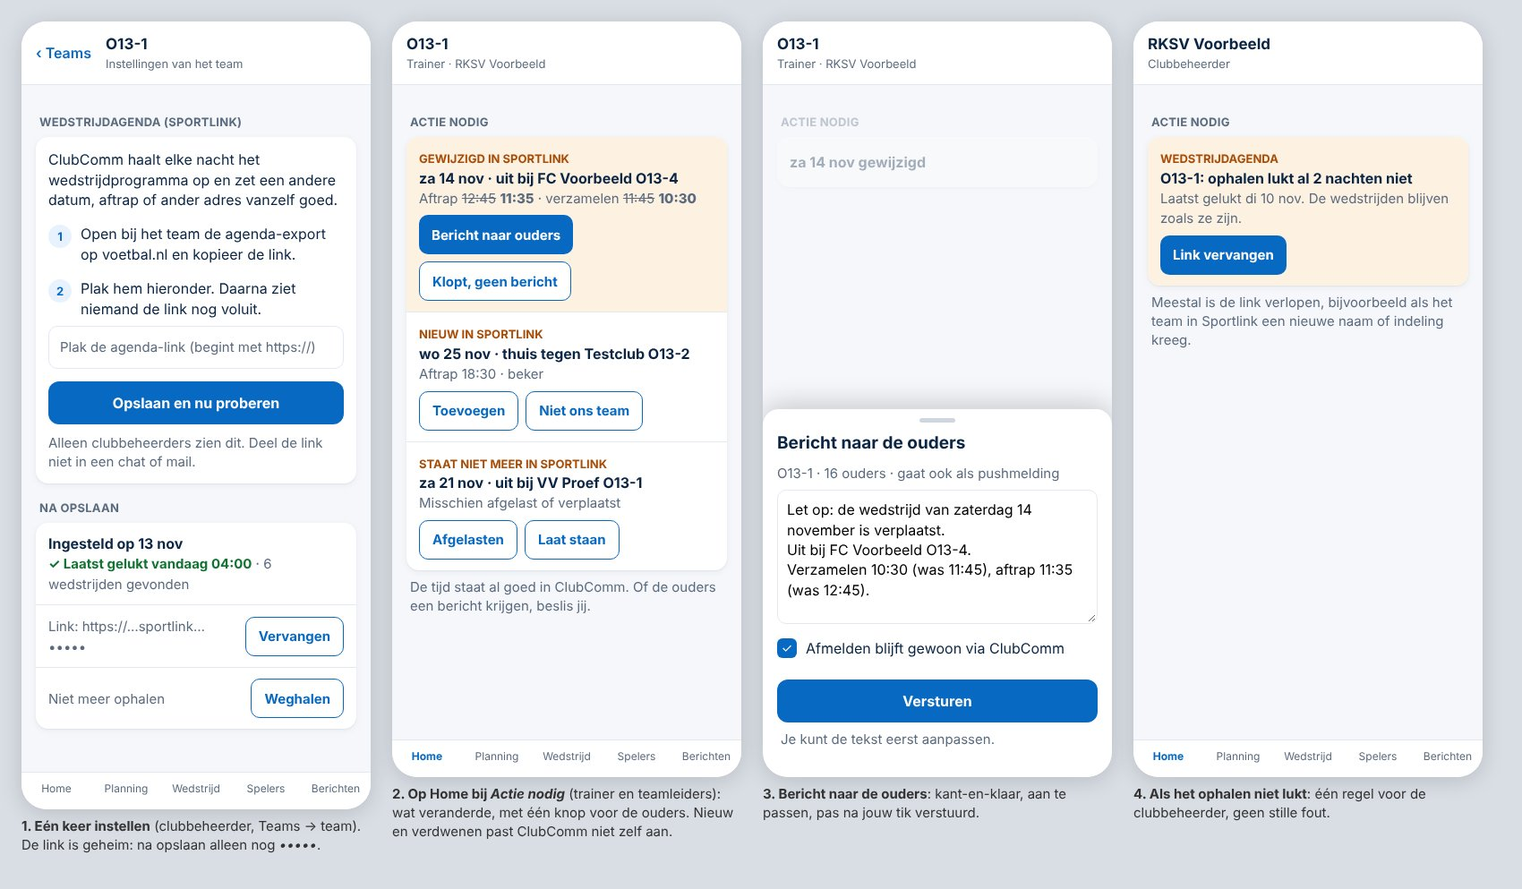
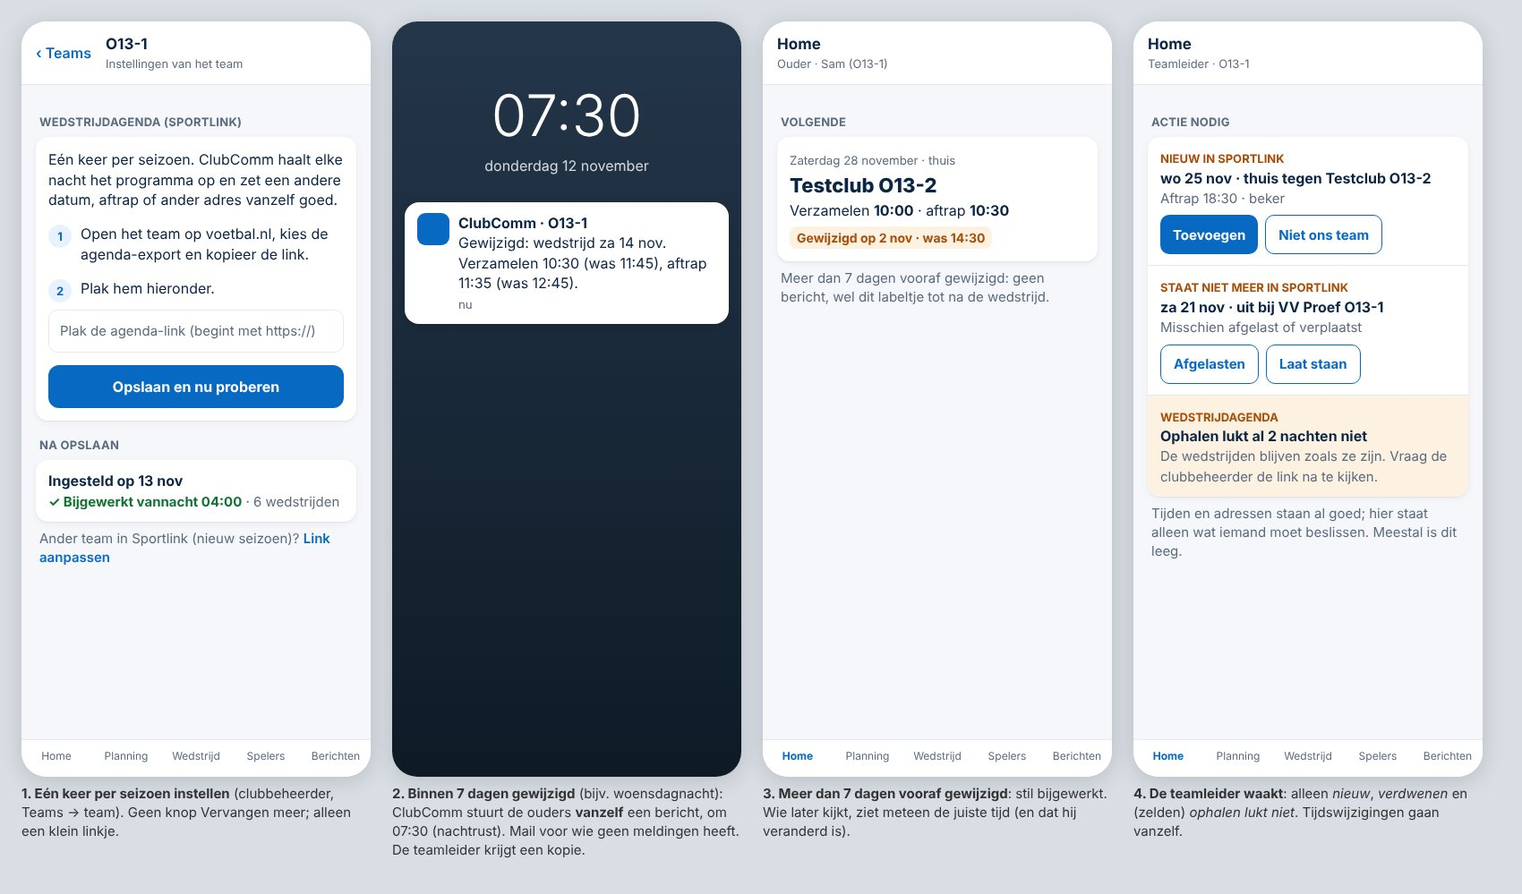
Voorstel D versie 2 (link hele seizoen, 7-dagenregel met vanzelf bericht, teamleider waakt) en voorbeeld stap 1 (teamleider past aftrap aan)
Claude-Session: https://claude.ai/code/session_01JemqRo5kiX7AhhtzuggotQ

diff --git a/docs/onderzoek/sportlink-agenda/voorbeeld.html b/docs/onderzoek/sportlink-agenda/voorbeeld.html
@@ -1,6 +1,6 @@
 <!doctype html>
 <html lang="nl"><head><meta charset="utf-8"><meta name="viewport" content="width=device-width, initial-scale=1">
-<title>Voorbeeld: wedstrijdagenda (voorstel D)</title>
+<title>Voorbeeld: wedstrijdagenda (voorstel D, versie 2)</title>
 <style>
 /* Voorstel D: voorbeeld in de huidige stijl van de app; verzonnen club en namen */
 :root { --blauw: #0869c2; --blauw-l: #e7f2fe; --inkt: #0b2545; --zacht: #5b6b7f; --lijn: #e3e9f1; --grond: #f5f7fa; --groen: #137333; --groen-l: #e7f6ec; --rood: #dc2626; --oranje: #a84d08; }
@@ -51,6 +51,20 @@ h2 { font-size: 13px; letter-spacing: .02em; color: var(--zacht); margin: 18px 4
 .stap { display:grid; grid-template-columns:26px 1fr; gap:10px; padding:8px 0; } .stap .nr { margin-top:1px; }
 .ok { color:var(--groen); font-weight:700; } textarea { width:100%; min-height:150px; font:inherit; border:1.5px solid var(--lijn); border-radius:10px; padding:10px; }
 .vink { display:flex; gap:10px; align-items:flex-start; padding:10px 0; } .vink i { width:22px; height:22px; border-radius:6px; background:var(--blauw); color:#fff; display:grid; place-items:center; font-style:normal; font-size:14px; flex:none; }
+</style><style>
+.form { padding:14px; } .form label { display:block; font-size:14px; color:var(--zacht); margin:10px 0 4px; font-weight:600; }
+.inp { min-height:44px; border:1.5px solid var(--lijn); border-radius:10px; padding:10px 12px; background:#fff; } .inp.aan { border-color:var(--blauw); box-shadow:0 0 0 3px var(--blauw-l); }
+.twee { display:grid; grid-template-columns:1fr 1fr; gap:10px; }
+.hint { font-size:14px; color:var(--zacht); margin-top:4px; } .hint b { color:var(--inkt); }
+.melding { background:#fff; border-radius:16px; padding:12px 14px; box-shadow:0 2px 10px rgba(0,0,0,.12); display:grid; grid-template-columns:36px 1fr; gap:10px; margin:10px 0; }
+.melding img, .melding .ic { width:36px; height:36px; border-radius:9px; background:var(--blauw); }
+.melding small { color:var(--zacht); } .vergr { background:#1b2733; }
+.gewijzigd { display:inline-block; margin-top:6px; font-size:14px; font-weight:700; color:var(--oranje); background:#fdf1e1; border-radius:8px; padding:3px 8px; }
+.groot2 { font-size:22px; font-weight:800; margin:2px 0; }
+.slot { position:absolute; inset:0; background:linear-gradient(#24364a,#0e1a26); color:#fff; padding:60px 14px; }
+.slot .tijd { text-align:center; font-size:64px; font-weight:300; } .slot .dag { text-align:center; opacity:.8; margin-bottom:30px; }
+.slot .melding { color:var(--inkt); }
+.linkje { color:var(--blauw); font-weight:600; font-size:15px; }
 </style></head><body>
 <div class="telefoons">
 <div><div class="tel">
@@ -58,54 +72,43 @@ h2 { font-size: 13px; letter-spacing: .02em; color: var(--zacht); margin: 18px 4
   <div class="inhoud">
     <h2>WEDSTRIJDAGENDA (SPORTLINK)</h2>
     <div class="kaart" style="padding:14px">
-      <p style="margin:0 0 8px">ClubComm haalt elke nacht het wedstrijdprogramma op en zet een andere datum, aftrap of ander adres vanzelf goed.</p>
-      <div class="stap"><span class="nr">1</span><span>Open bij het team de agenda-export op voetbal.nl en kopieer de link.</span></div>
-      <div class="stap"><span class="nr">2</span><span>Plak hem hieronder. Daarna ziet niemand de link nog voluit.</span></div>
+      <p style="margin:0 0 8px">Eén keer per seizoen. ClubComm haalt elke nacht het programma op en zet een andere datum, aftrap of ander adres vanzelf goed.</p>
+      <div class="stap"><span class="nr">1</span><span>Open het team op voetbal.nl, kies de agenda-export en kopieer de link.</span></div>
+      <div class="stap"><span class="nr">2</span><span>Plak hem hieronder.</span></div>
       <div class="veldin">Plak de agenda-link (begint met https://)</div>
       <div class="knop">Opslaan en nu proberen</div>
-      <p class="uitleg" style="margin:10px 0 0">Alleen clubbeheerders zien dit. Deel de link niet in een chat of mail.</p>
     </div>
     <h2>NA OPSLAAN</h2>
-    <div class="kaart">
-      <div class="rij"><div class="t"><b>Ingesteld op 13 nov</b><small><span class="ok">✓ Laatst gelukt vandaag 04:00</span> · 6 wedstrijden gevonden</small></div></div>
-      <div class="rij"><div class="t"><small>Link: https://…sportlink…•••••</small></div><span class="knopje licht">Vervangen</span></div>
-      <div class="rij"><div class="t"><small>Niet meer ophalen</small></div><span class="knopje licht">Weghalen</span></div>
-    </div>
+    <div class="kaart"><div class="rij"><div class="t"><b>Ingesteld op 13 nov</b><small><span class="ok">✓ Bijgewerkt vannacht 04:00</span> · 6 wedstrijden</small></div></div></div>
+    <p class="uitleg">Ander team in Sportlink (nieuw seizoen)? <span class="linkje">Link aanpassen</span></p>
   </div><div class="nav"><span class="">Home</span><span class="">Planning</span><span class="">Wedstrijd</span><span class="">Spelers</span><span class="">Berichten</span></div>
-</div><p class="bijschrift"><b>1. Eén keer instellen</b> (clubbeheerder, Teams → team). De link is geheim: na opslaan alleen nog <i>•••••</i>.</p></div><div><div class="tel">
-  <div class="kop"><div><b>O13-1</b><small>Trainer · RKSV Voorbeeld</small></div></div>
+</div><p class="bijschrift"><b>1. Eén keer per seizoen instellen</b> (clubbeheerder, Teams → team). Geen knop Vervangen meer; alleen een klein linkje.</p></div><div><div class="tel">
+  <div class="slot"><div class="tijd">07:30</div><div class="dag">donderdag 12 november</div>
+    <div class="melding"><span class="ic"></span><div><b>ClubComm · O13-1</b><br>Gewijzigd: wedstrijd za 14 nov. Verzamelen 10:30 (was 11:45), aftrap 11:35 (was 12:45).<br><small>nu</small></div></div>
+  </div>
+</div><p class="bijschrift"><b>2. Binnen 7 dagen gewijzigd</b> (bijv. woensdagnacht): ClubComm stuurt de ouders <b>vanzelf</b> een bericht, om 07:30 (nachtrust). Mail voor wie geen meldingen heeft. De teamleider krijgt een kopie.</p></div><div><div class="tel">
+  <div class="kop"><div><b>Home</b><small>Ouder · Sam (O13-1)</small></div></div>
+  <div class="inhoud">
+    <h2>VOLGENDE</h2>
+    <div class="kaart" style="padding:14px"><small style="color:var(--zacht)">Zaterdag 28 november · thuis</small>
+      <div class="groot2">Testclub O13-2</div>
+      <div>Verzamelen <b>10:00</b> · aftrap <b>10:30</b></div>
+      <span class="gewijzigd">Gewijzigd op 2 nov · was 14:30</span>
+    </div>
+    <p class="uitleg">Meer dan 7 dagen vooraf gewijzigd: geen bericht, wel dit labeltje tot na de wedstrijd.</p>
+  </div><div class="nav"><span class="aan">Home</span><span class="">Planning</span><span class="">Wedstrijd</span><span class="">Spelers</span><span class="">Berichten</span></div>
+</div><p class="bijschrift"><b>3. Meer dan 7 dagen vooraf gewijzigd</b>: stil bijgewerkt. Wie later kijkt, ziet meteen de juiste tijd (en dat hij veranderd is).</p></div><div><div class="tel">
+  <div class="kop"><div><b>Home</b><small>Teamleider · O13-1</small></div></div>
   <div class="inhoud">
     <h2>ACTIE NODIG</h2>
     <div class="kaart">
-      <div class="rij kol oranje-r"><div class="t"><span class="tag">GEWIJZIGD IN SPORTLINK</span><b>za 14 nov · uit bij FC Voorbeeld O13-4</b>
-        <small>Aftrap <span class="was">12:45</span> <span class="nu">11:35</span> · verzamelen <span class="was">11:45</span> <span class="nu">10:30</span></small></div>
-        <div class="acties"><span class="knopje">Bericht naar ouders</span><span class="knopje licht">Klopt, geen bericht</span></div></div>
       <div class="rij kol"><div class="t"><span class="tag">NIEUW IN SPORTLINK</span><b>wo 25 nov · thuis tegen Testclub O13-2</b><small>Aftrap 18:30 · beker</small></div>
-        <div class="acties"><span class="knopje licht">Toevoegen</span><span class="knopje licht">Niet ons team</span></div></div>
+        <div class="acties"><span class="knopje">Toevoegen</span><span class="knopje licht">Niet ons team</span></div></div>
       <div class="rij kol"><div class="t"><span class="tag">STAAT NIET MEER IN SPORTLINK</span><b>za 21 nov · uit bij VV Proef O13-1</b><small>Misschien afgelast of verplaatst</small></div>
         <div class="acties"><span class="knopje licht">Afgelasten</span><span class="knopje licht">Laat staan</span></div></div>
+      <div class="rij kol oranje-r"><div class="t"><span class="tag">WEDSTRIJDAGENDA</span><b>Ophalen lukt al 2 nachten niet</b><small>De wedstrijden blijven zoals ze zijn. Vraag de clubbeheerder de link na te kijken.</small></div></div>
     </div>
-    <p class="uitleg">De tijd staat al goed in ClubComm. Of de ouders een bericht krijgen, beslis jij.</p>
+    <p class="uitleg">Tijden en adressen staan al goed; hier staat alleen wat iemand moet beslissen. Meestal is dit leeg.</p>
   </div><div class="nav"><span class="aan">Home</span><span class="">Planning</span><span class="">Wedstrijd</span><span class="">Spelers</span><span class="">Berichten</span></div>
-</div><p class="bijschrift"><b>2. Op Home bij <i>Actie nodig</i></b> (trainer en teamleiders): wat veranderde, met één knop voor de ouders. Nieuw en verdwenen past ClubComm niet zelf aan.</p></div><div><div class="tel">
-  <div class="kop"><div><b>O13-1</b><small>Trainer · RKSV Voorbeeld</small></div></div>
-  <div class="inhoud" style="opacity:.35"><h2>ACTIE NODIG</h2><div class="kaart"><div class="rij"><b>za 14 nov gewijzigd</b></div></div></div>
-  <div class="sheet"><div class="greep"></div><h3>Bericht naar de ouders</h3>
-    <p class="uitleg" style="margin:0 0 8px">O13-1 · 16 ouders · gaat ook als pushmelding</p>
-    <textarea>Let op: de wedstrijd van zaterdag 14 november is verplaatst.
-Uit bij FC Voorbeeld O13-4.
-Verzamelen 10:30 (was 11:45), aftrap 11:35 (was 12:45).</textarea>
-    <div class="vink"><i>✓</i><span>Afmelden blijft gewoon via ClubComm</span></div>
-    <div class="knop">Versturen</div>
-    <p class="uitleg">Je kunt de tekst eerst aanpassen.</p>
-  </div>
-</div><p class="bijschrift"><b>3. Bericht naar de ouders</b>: kant-en-klaar, aan te passen, pas na jouw tik verstuurd.</p></div><div><div class="tel">
-  <div class="kop"><div><b>RKSV Voorbeeld</b><small>Clubbeheerder</small></div></div>
-  <div class="inhoud">
-    <h2>ACTIE NODIG</h2>
-    <div class="kaart"><div class="rij kol oranje-r"><div class="t"><span class="tag">WEDSTRIJDAGENDA</span><b>O13-1: ophalen lukt al 2 nachten niet</b><small>Laatst gelukt di 10 nov. De wedstrijden blijven zoals ze zijn.</small></div>
-      <div class="acties"><span class="knopje">Link vervangen</span></div></div></div>
-    <p class="uitleg">Meestal is de link verlopen, bijvoorbeeld als het team in Sportlink een nieuwe naam of indeling kreeg.</p>
-  </div><div class="nav"><span class="aan">Home</span><span class="">Planning</span><span class="">Wedstrijd</span><span class="">Spelers</span><span class="">Berichten</span></div>
-</div><p class="bijschrift"><b>4. Als het ophalen niet lukt</b>: één regel voor de clubbeheerder, geen stille fout.</p></div>
+</div><p class="bijschrift"><b>4. De teamleider waakt</b>: alleen <i>nieuw</i>, <i>verdwenen</i> en (zelden) <i>ophalen lukt niet</i>. Tijdswijzigingen gaan vanzelf.</p></div>
 </div></body></html>

diff --git a/docs/onderzoek/sportlink-agenda/voorbeeld-stap1.html b/docs/onderzoek/sportlink-agenda/voorbeeld-stap1.html
@@ -1,0 +1,107 @@
+<!doctype html>
+<html lang="nl"><head><meta charset="utf-8"><meta name="viewport" content="width=device-width, initial-scale=1">
+<title>Voorbeeld: aftrap aanpassen door de teamleider</title>
+<style>
+/* Voorstel D: voorbeeld in de huidige stijl van de app; verzonnen club en namen */
+:root { --blauw: #0869c2; --blauw-l: #e7f2fe; --inkt: #0b2545; --zacht: #5b6b7f; --lijn: #e3e9f1; --grond: #f5f7fa; --groen: #137333; --groen-l: #e7f6ec; --rood: #dc2626; --oranje: #a84d08; }
+* { box-sizing: border-box; } body { margin: 0; font: 16px/1.4 -apple-system, BlinkMacSystemFont, "Segoe UI", Roboto, Arial, sans-serif; color: var(--inkt); background: #d9dee5; }
+.telefoons { display: flex; gap: 24px; padding: 24px; flex-wrap: wrap; align-items: flex-start; }
+.tel { width: 390px; min-height: 844px; background: var(--grond); border-radius: 28px; overflow: hidden; box-shadow: 0 4px 24px rgba(0,0,0,.15); position: relative; }
+.kop { background: #fff; border-bottom: 1px solid var(--lijn); padding: 14px 16px; display: flex; align-items: center; gap: 10px; }
+.kop img { width: 32px; height: 32px; border-radius: 8px; } .kop b { font-size: 17px; } .kop small { display: block; color: var(--zacht); font-size: 13px; }
+.terug { color: var(--blauw); font-weight: 600; }
+.inhoud { padding: 14px 16px 90px; }
+h2 { font-size: 13px; letter-spacing: .02em; color: var(--zacht); margin: 18px 4px 8px; font-weight: 700; }
+.kaart { background: #fff; border-radius: 14px; box-shadow: 0 1px 2px rgba(11,37,69,.06), 0 2px 8px rgba(11,37,69,.05); overflow: hidden; }
+.rij { display: flex; align-items: center; gap: 12px; padding: 12px 14px; border-top: 1px solid var(--lijn); min-height: 56px; }
+.rij:first-child { border-top: 0; }
+.rij .t { flex: 1; } .rij b { display: block; } .rij small { color: var(--zacht); font-size: 15px; }
+.uitslag { font-weight: 800; font-size: 18px; } .pijl { color: var(--zacht); font-size: 20px; }
+.seg { display: flex; background: #e9edf3; border-radius: 10px; padding: 3px; margin-bottom: 4px; }
+.seg span { flex: 1; text-align: center; padding: 9px 0; border-radius: 8px; font-weight: 600; font-size: 15px; color: var(--zacht); }
+.seg span.aan { background: #fff; color: var(--inkt); box-shadow: 0 1px 2px rgba(0,0,0,.08); }
+.stand { text-align: center; padding: 14px; } .stand .groot { font-size: 34px; font-weight: 800; } .stand small { color: var(--zacht); }
+.chips { display: flex; flex-wrap: wrap; gap: 6px; padding: 0 14px 14px; }
+.chip { font-size: 14px; padding: 5px 9px; border-radius: 999px; background: #eef2f6; } .chip.wij { background: var(--groen-l); color: var(--groen); }
+.basis { display: grid; grid-template-columns: 28px 1fr auto; gap: 4px 10px; padding: 12px 14px; align-items: center; }
+.nr { width: 26px; height: 26px; border-radius: 50%; background: var(--blauw-l); color: var(--blauw); display: grid; place-items: center; font-weight: 700; font-size: 13px; }
+.min { color: var(--zacht); font-size: 15px; text-align: right; }
+.wissel { display: grid; grid-template-columns: 54px 1fr; gap: 2px 10px; padding: 10px 14px; border-top: 1px solid var(--lijn); }
+.wissel:first-child { border-top: 0; } .wissel .m { font-weight: 700; color: var(--zacht); }
+.in { color: var(--groen); font-weight: 600; } .uit { color: var(--rood); font-weight: 600; }
+.knop { display: flex; align-items: center; justify-content: center; min-height: 48px; border-radius: 12px; background: var(--blauw); color: #fff; font-weight: 700; margin-top: 14px; }
+.knop.licht { background: #fff; color: var(--blauw); border: 1.5px solid var(--blauw); }
+.sheet { position: absolute; inset: auto 0 0 0; background: #fff; border-radius: 18px 18px 0 0; padding: 10px 16px 24px; box-shadow: 0 -6px 30px rgba(0,0,0,.18); }
+.greep { width: 40px; height: 5px; border-radius: 3px; background: #cfd6df; margin: 0 auto 10px; }
+.sheet h3 { margin: 0 0 10px; font-size: 19px; }
+.veld { display: grid; grid-template-columns: 74px 1fr 1fr; gap: 8px; align-items: center; padding: 8px 0; border-top: 1px solid var(--lijn); }
+.veld input, .veld select, .veld .sel { min-height: 44px; border: 1.5px solid var(--lijn); border-radius: 10px; padding: 0 10px; font: inherit; display: flex; align-items: center; background: #fff; }
+.lab { font-size: 13px; color: var(--zacht); }
+.uitleg { color: var(--zacht); font-size: 15px; margin: 8px 4px; }
+.nav { position: absolute; left: 0; right: 0; bottom: 0; background: #fff; border-top: 1px solid var(--lijn); display: grid; grid-template-columns: repeat(5,1fr); }
+.nav span { text-align: center; font-size: 12px; padding: 10px 0 14px; color: var(--zacht); } .nav span.aan { color: var(--blauw); font-weight: 700; }
+.bijschrift { width: 390px; font-size: 15px; color: #333; margin-top: 8px; }
+</style><style>
+.oranje-r { background:#fdf1e1; } .tag { font-size:13px; font-weight:700; color:var(--oranje); }
+.was { color:var(--zacht); text-decoration:line-through; } .nu { font-weight:800; }
+.knopje { display:inline-flex; align-items:center; min-height:44px; padding:0 14px; border-radius:10px; background:var(--blauw); color:#fff; font-weight:700; font-size:15px; white-space:nowrap; }
+.knopje.licht { background:#fff; color:var(--blauw); border:1.5px solid var(--blauw); }
+.rij.kol { flex-direction:column; align-items:stretch; gap:8px; } .rij.kol .acties { display:flex; gap:8px; flex-wrap:wrap; }
+.veldin { min-height:48px; border:1.5px solid var(--lijn); border-radius:10px; padding:12px; color:var(--zacht); background:#fff; font-size:15px; }
+.stap { display:grid; grid-template-columns:26px 1fr; gap:10px; padding:8px 0; } .stap .nr { margin-top:1px; }
+.ok { color:var(--groen); font-weight:700; } textarea { width:100%; min-height:150px; font:inherit; border:1.5px solid var(--lijn); border-radius:10px; padding:10px; }
+.vink { display:flex; gap:10px; align-items:flex-start; padding:10px 0; } .vink i { width:22px; height:22px; border-radius:6px; background:var(--blauw); color:#fff; display:grid; place-items:center; font-style:normal; font-size:14px; flex:none; }
+</style><style>
+.form { padding:14px; } .form label { display:block; font-size:14px; color:var(--zacht); margin:10px 0 4px; font-weight:600; }
+.inp { min-height:44px; border:1.5px solid var(--lijn); border-radius:10px; padding:10px 12px; background:#fff; } .inp.aan { border-color:var(--blauw); box-shadow:0 0 0 3px var(--blauw-l); }
+.twee { display:grid; grid-template-columns:1fr 1fr; gap:10px; }
+.hint { font-size:14px; color:var(--zacht); margin-top:4px; } .hint b { color:var(--inkt); }
+.melding { background:#fff; border-radius:16px; padding:12px 14px; box-shadow:0 2px 10px rgba(0,0,0,.12); display:grid; grid-template-columns:36px 1fr; gap:10px; margin:10px 0; }
+.melding img, .melding .ic { width:36px; height:36px; border-radius:9px; background:var(--blauw); }
+.melding small { color:var(--zacht); } .vergr { background:#1b2733; }
+.gewijzigd { display:inline-block; margin-top:6px; font-size:14px; font-weight:700; color:var(--oranje); background:#fdf1e1; border-radius:8px; padding:3px 8px; }
+.groot2 { font-size:22px; font-weight:800; margin:2px 0; }
+.slot { position:absolute; inset:0; background:linear-gradient(#24364a,#0e1a26); color:#fff; padding:60px 14px; }
+.slot .tijd { text-align:center; font-size:64px; font-weight:300; } .slot .dag { text-align:center; opacity:.8; margin-bottom:30px; }
+.slot .melding { color:var(--inkt); }
+.linkje { color:var(--blauw); font-weight:600; font-size:15px; }
+</style></head><body>
+<div class="telefoons">
+<div><div class="tel">
+  <div class="kop"><div><b>Wedstrijd</b><small>Teamleider · O13-1</small></div></div>
+  <div class="inhoud">
+    <div class="kaart form">
+      <div style="display:flex;gap:10px;align-items:center"><div><b>za 14 nov · uit bij FC Voorbeeld O13-4</b><small style="display:block;color:var(--zacht)">over 2 dagen</small></div></div>
+      <div class="twee"><div><label>Datum</label><div class="inp">za 14-11-2026</div></div><div><label>Aftrap</label><div class="inp aan">11:35</div></div></div>
+      <p class="hint">Was <b>12:45</b>. Verzamelen schuift mee: <b>10:30</b> (was 11:45).</p>
+      <label>Verzamelen</label><div class="inp">10:30</div>
+      <label>Verzamelpunt (mag leeg)</label><div class="inp" style="color:var(--zacht)">Bijv. de parkeerplaats bij de kantine</div>
+      <label>Adres</label><div class="inp">Sportpark Overburg, Amstelveen</div>
+      <div class="knop">Opslaan en ouders inlichten</div>
+      <div class="knop licht">Alleen opslaan</div>
+      <p class="hint" style="margin-top:10px">De wedstrijd is binnen 7 dagen: de ouders hebben de tijd misschien al gezien.</p>
+    </div>
+  </div><div class="nav"><span class="">Home</span><span class="">Planning</span><span class="aan">Wedstrijd</span><span class="">Spelers</span><span class="">Berichten</span></div>
+</div><p class="bijschrift"><b>1. Teamleider past de aftrap aan</b> (Wedstrijd, het scherm dat hij al heeft). Nieuw: <b>datum en aftrap</b>; verzamelen schuift mee met hetzelfde aantal minuten.</p></div><div><div class="tel">
+  <div class="kop"><div><b>Wedstrijd</b><small>Teamleider · O13-1</small></div></div>
+  <div class="inhoud" style="opacity:.35"><div class="kaart form"><b>za 14 nov</b></div></div>
+  <div class="sheet"><div class="greep"></div><h3>Ouders inlichten</h3>
+    <p class="uitleg" style="margin:0 0 8px">16 ouders van O13-1 · pushmelding, mail voor wie geen meldingen heeft</p>
+    <textarea>Gewijzigd: de wedstrijd van zaterdag 14 november (uit bij FC Voorbeeld O13-4).
+Verzamelen 10:30 (was 11:45), aftrap 11:35 (was 12:45).</textarea>
+    <div class="knop">Opslaan en versturen</div>
+    <p class="uitleg">Je kunt de tekst eerst aanpassen. Na 21:00 gaat het bericht om 07:30.</p>
+  </div>
+</div><p class="bijschrift"><b>2. Het bericht</b> staat klaar, met oud en nieuw. Gaat zoals elk ClubComm-bericht (push, anders mail).</p></div><div><div class="tel">
+  <div class="kop"><div><b>Home</b><small>Ouder · Sam (O13-1)</small></div></div>
+  <div class="inhoud">
+    <h2>VOLGENDE</h2>
+    <div class="kaart" style="padding:14px"><small style="color:var(--zacht)">Zaterdag 14 november · uit</small>
+      <div class="groot2">FC Voorbeeld O13-4</div>
+      <div>Verzamelen <b>10:30</b> · aftrap <b>11:35</b></div>
+      <span class="gewijzigd">Gewijzigd op 12 nov · was 12:45</span>
+      <div class="knop licht">Ik kan niet</div>
+    </div>
+  </div><div class="nav"><span class="aan">Home</span><span class="">Planning</span><span class="">Wedstrijd</span><span class="">Spelers</span><span class="">Berichten</span></div>
+</div><p class="bijschrift"><b>3. Wat de ouder ziet</b>: de nieuwe tijden, met <i>Gewijzigd · was 12:45</i> tot na de wedstrijd. Zo valt het op, ook zonder het bericht te lezen.</p></div>
+</div></body></html>

diff --git a/docs/onderzoek/sportlink-agenda/voorstel.md b/docs/onderzoek/sportlink-agenda/voorstel.md
@@ -3,6 +3,15 @@
 *Spoor 3 · maat **L** (server haalt gegevens op en past wedstrijden aan; nieuwe opslag van een geheime link) · 13 november 2026 · nog geen besluit.*
 Hoort bij `docs/onderzoek/wedstrijd-bijhouden/voorstel.md` (stap D).
 
+> **Versie 2 (13-11, na vragen van de gebruiker):**
+> - De link blijft het hele seizoen geldig. Er is geen knop *Vervangen*, alleen een klein linkje voor een nieuw seizoen of een ander team.
+> - **Meer dan 7 dagen** voor de wedstrijd gewijzigd: stil bijwerken, met het label *Gewijzigd · was …* bij de wedstrijd.
+> - **7 dagen of minder:** bijwerken **en vanzelf een bericht aan de ouders**, om 07:30 (nachtrust). Dat gaat als push, en per mail voor wie geen meldingen heeft. De teamleider krijgt een kopie.
+> - **De teamleider waakt.** Bij *Actie nodig* ziet hij alleen *nieuw*, *verdwenen* en *ophalen lukt niet*.
+> - **Eerst stap 1:** de teamleider kan zelf datum en aftrap aanpassen (verzamelen schuift mee), met *Opslaan en ouders inlichten* binnen 7 dagen. Voorbeeld `voorbeeld-stap1.html`. Dit is maat M, apart van D.
+>
+> Waar hieronder iets anders staat, geldt versie 2.
+
 ## 1. Aanleiding
 - De wedstrijd van za 14-11 (O13 talententeam, uit bij Sporting Martinus O13-4) is op voetbal.nl verplaatst: aftrap 12:45 → **11:35**. ClubComm wist dat niet. Op 13-11 met een eenmalig script aangepast (`supabase/scripts/2026-11-13_dcg_wedstrijd_1411_tijd.sql`, na akkoord). De ouders hebben daarvan nog geen bericht van ClubComm gekregen.
 - De oorzaak is dat ClubComm geen koppeling heeft. De wedstrijden zijn op 17-10 **één keer** ingeladen uit de Sportlink-agenda (iCal) (`supabase/scripts/2026-10-17_dcg_wedstrijden_fase2.sql`). Elke wedstrijd bewaart wel het kenmerk uit die agenda (veld `sportlink`, bijv. `20261017T213937Z-1@sportlink.com`). Daarmee kunnen we later precies dezelfde wedstrijd terugvinden.
@@ -57,8 +66,17 @@ Er staat geen afgewezen idee over Sportlink of de wedstrijdagenda. Wel bekeken:
 3. **D3 — toepassen:** migratie en functie in productie na akkoord. Jij zet de link van het O13 talententeam (zelf, in de app). Daarna draait het één week mee en kijken we elke ochtend of het klopt.
 4. **Later — B:** de Club.Dataservice-sleutel, zodra DCG die heeft. Dan werkt het voor alle teams zonder een link per team.
 
-## Voorbeeld (D1, 13-11)
-`voorbeeld.html` / `voorbeeld.jpg` (390 px, verzonnen club): 1. instellen, 2. *Actie nodig* met gewijzigd / nieuw / verdwenen, 3. bericht naar de ouders, 4. ophalen lukt niet. Nog geen akkoord.
+## Voorbeelden (13-11, versie 2)
+- `voorbeeld-stap1.html` / `.jpg` (stap 1, maat M):
+  1. de teamleider past datum en aftrap aan, verzamelen schuift mee;
+  2. *Ouders inlichten* met de tekst klaar;
+  3. de ouder ziet *Gewijzigd · was 12:45*.
+- `voorbeeld.html` / `.jpg` (voorstel D, versie 2):
+  1. één keer per seizoen instellen;
+  2. binnen 7 dagen: vanzelf een bericht om 07:30;
+  3. meer dan 7 dagen: stil bijgewerkt, met label;
+  4. de teamleider waakt (nieuw, verdwenen, ophalen lukt niet).
+- Beide zijn nog niet akkoord. Verzonnen club en namen.
 
 ## 8. Wat ik van jou nodig heb
 - **Akkoord op het advies** (A nu, B later) en op het principe in punt 5: tijden worden vanzelf bijgewerkt, ouders krijgen pas een bericht als de staf op de knop tikt.
